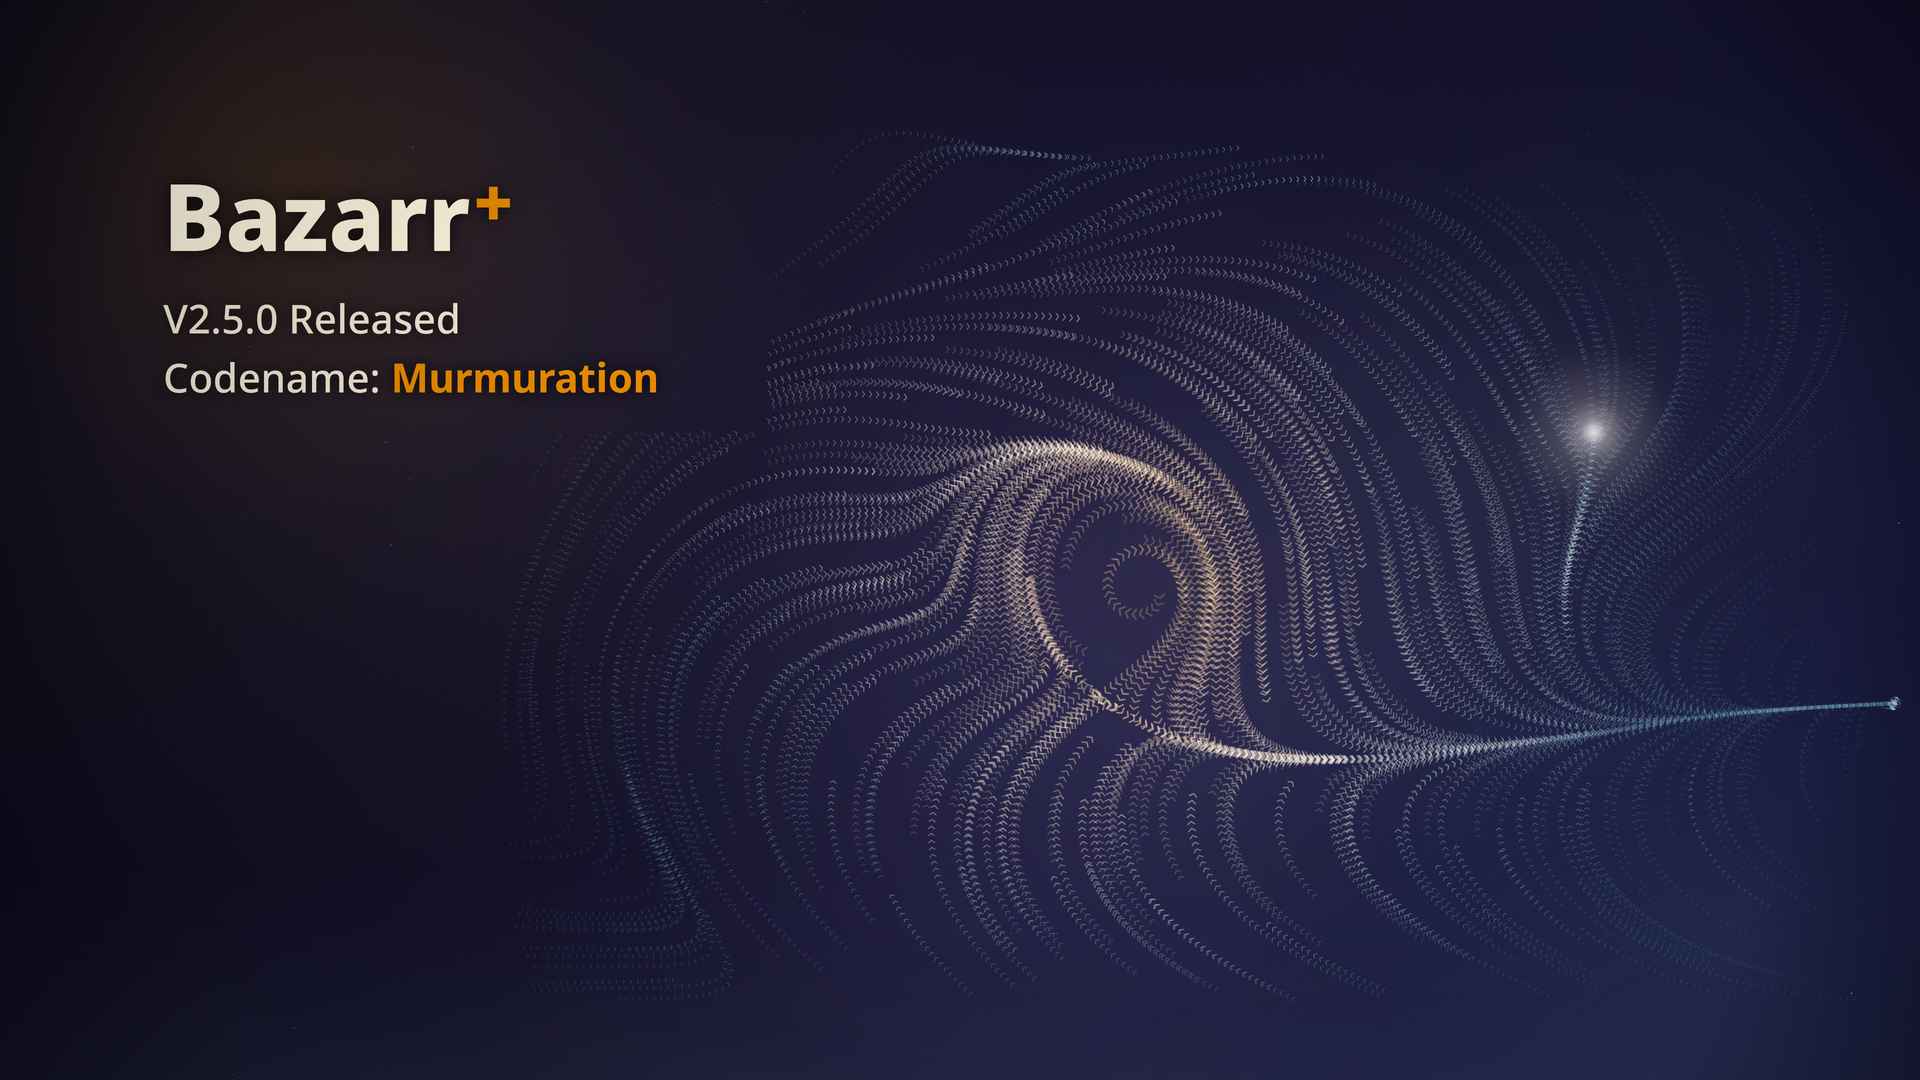
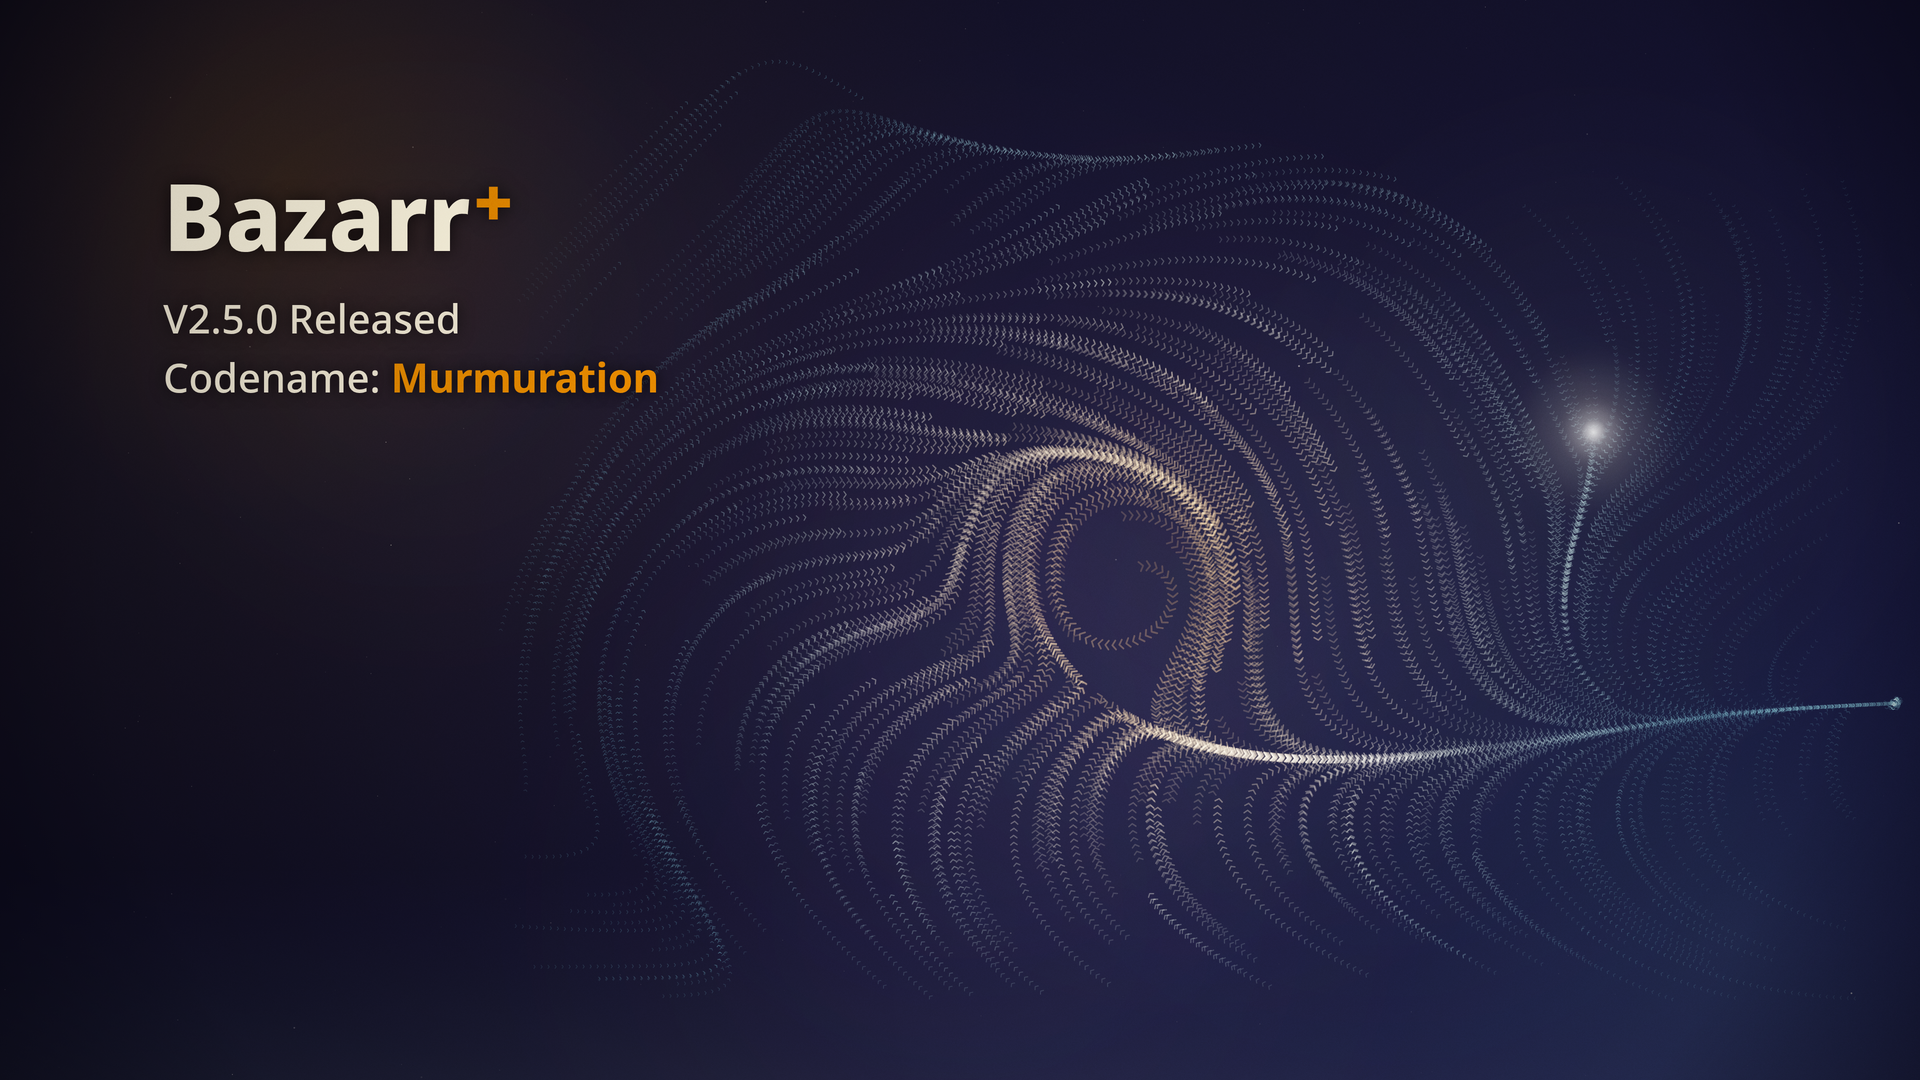
fix(hero): soft text fade instead of a hard cutout
The flock used a hard rectangular exclusion around the title, which read as a
visible cutout against the surrounding birds. Replace it with a smooth radial
(slightly elliptical) density falloff so the flock thins gracefully near the
title with no edge, and let the murmuration fill the whole field.

diff --git a/site/hero/murmuration-v2.5.0.html b/site/hero/murmuration-v2.5.0.html
@@ -62,8 +62,10 @@ let rng = mulberry32(SEED);
 // Swirl centre (the flock wraps around this) and the beacon it converges on.
 const C = { x: W * 0.60, y: H * 0.55 };
 const BEACON = { x: W * 0.83, y: H * 0.40 };
-// Top-left text exclusion box (keep the flock out so the title stays legible).
-const TEXT_BOX = { x0: W * 0.04, y0: H * 0.10, x1: W * 0.40, y1: H * 0.40 };
+// Soft text-clearing field: birds fade out smoothly as they near the top-left
+// title, so the flock thins gracefully with no hard rectangular cutout.
+const TEXT_ANCHOR = { x: W * 0.17, y: H * 0.225 };
+const TEXT_FADE_R = S * 0.30;
 
 const NF = 2.1 / S; // flow-field noise frequency
 
@@ -177,14 +179,9 @@ function drawMurmuration() {
   const STEP = S * 0.0065;
 
   for (let a = 0; a < AGENTS; a++) {
-    let x, y;
-    let guard = 0;
-    do {
-      // Seed mostly in the centre/right; sparse far-left so wisps trail off.
-      x = rand(W * 0.26, W * 0.97);
-      y = rand(H * 0.16, H * 0.93);
-      guard++;
-    } while (guard < 8 && inTextBox(x, y));
+    // Seed mostly in the centre/right; sparse far-left so wisps trail off.
+    let x = rand(W * 0.26, W * 0.97);
+    let y = rand(H * 0.16, H * 0.93);
 
     const steps = Math.floor(rand(18, 46));
     for (let s = 0; s < steps; s++) {
@@ -192,7 +189,6 @@ function drawMurmuration() {
       x += Math.cos(ang) * STEP;
       y += Math.sin(ang) * STEP;
       if (x < -W * 0.02 || x > W * 1.02 || y < -H * 0.02 || y > H * 1.02) break;
-      if (inTextBox(x, y)) continue;
       drawBird(x, y, ang, s / steps);
     }
   }
@@ -208,7 +204,9 @@ function drawBird(x, y, ang, t) {
   const [r, g, b] = flockColor(w);
 
   const head = 0.30 + 0.70 * t;        // brighter toward the leading head
-  const alpha = clamp01(0.07 + 0.46 * head * (0.45 + 0.55 * w));
+  let alpha = clamp01(0.07 + 0.46 * head * (0.45 + 0.55 * w));
+  alpha *= textFade(x, y);             // thin out smoothly near the title
+  if (alpha < 0.012) return;           // drop invisible birds (no hard edge)
   const size = S * (0.0015 + 0.0030 * w);
 
   ctx.strokeStyle = `rgba(${r}, ${g}, ${b}, ${alpha})`;
@@ -287,8 +285,12 @@ function flockColor(w) {
   ];
 }
 
-function inTextBox(x, y) {
-  return x > TEXT_BOX.x0 && x < TEXT_BOX.x1 && y > TEXT_BOX.y0 && y < TEXT_BOX.y1;
+function textFade(x, y) {
+  // 0 over the title, ramping smoothly to 1 by TEXT_FADE_R. Slightly elliptical
+  // (wider than tall) to match the text block, with no visible edge.
+  const dx = (x - TEXT_ANCHOR.x) / 1.3;
+  const dy = y - TEXT_ANCHOR.y;
+  return smooth(clamp01(Math.hypot(dx, dy) / TEXT_FADE_R));
 }
 
 // ---------------------------------------------------------------------------